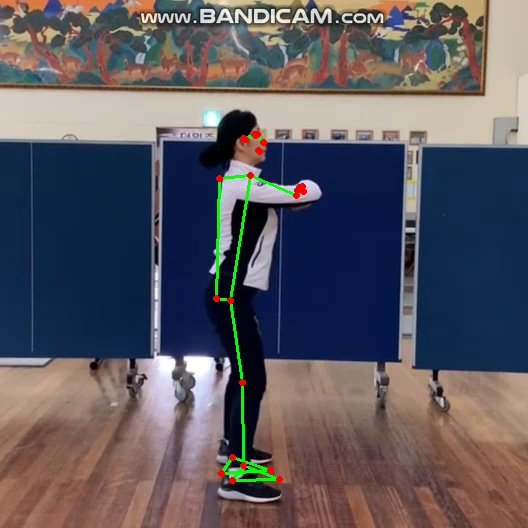
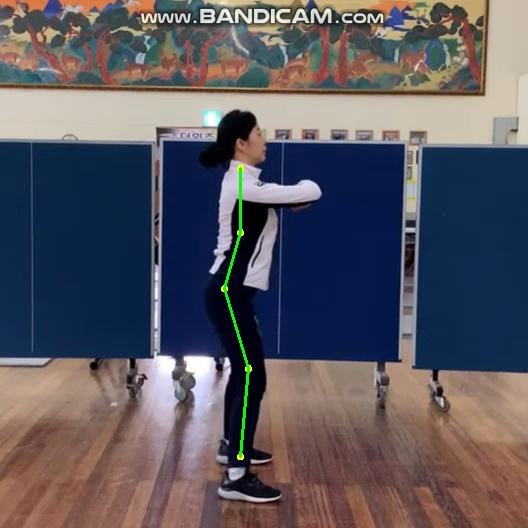
skeleton2,3 작업

Changed region(s): [[0.3939, 0.303, 0.6061, 0.9394], [0.4545, 0.2424, 0.5152, 0.303]]

diff --git a/Pose_Similarity_Check_Flask-master/openpose_skeleton/skeleton2.py b/Pose_Similarity_Check_Flask-master/openpose_skeleton/skeleton2.py
@@ -1,74 +1,39 @@
-import matplotlib as plt
+import cv2
+import pyopenpose as op
+import numpy as np
 
-def plot_line(a, b):
-    # 관절마다 선긋기
-    if (a.any()> 0 and b.any()>0): plt.plot([a[0], b[0]], [a[1], b[1]], 'k-')
-        
-def draw_skeleton(sample, pattern):
-    
-    keypoint = ['Nose', 'LEye', 'REye', 'LEar', 'REar', 'LShoulder', 'RShoulder',
-                'LElbow', 'RElbow', 'LWrist', 'RWrist', 'LHip', 'RHip', 'LKnee', 'RKnee', 'LAnkle', 'RAnkle']
-    skeleton = sample
-    
-    # 각 신체부위의 xy좌표 추출
-    Nose = skeleton[[0,17]]
-    LEye = skeleton[[1,18]]
-    REye = skeleton[[2,19]]
-    LEar = skeleton[[3,20]]
-    REar = skeleton[[4,21]]
-    LShoulder = skeleton[[5,22]]
-    RShoulder = skeleton[[6,23]]
-    LElbow = skeleton[[7,24]]
-    RElbow = skeleton[[8,25]]
-    LWrist = skeleton[[9,26]]
-    RWrist = skeleton[[10,27]]
-    LHip = skeleton[[11,28]]
-    RHip = skeleton[[12,29]]
-    LKnee = skeleton[[13,30]]
-    RKnee = skeleton[[14,31]]
-    LAnkle = skeleton[[15,32]]
-    RAnkle = skeleton[[16,33]]
-    
-    inbox={'facecolor':'w','edgecolor':'r','boxstyle':'round','alpha':0.5}
-    outbox={'facecolor':'w','edgecolor':'b','boxstyle':'round','alpha':0.5}
-    
-    # 각 관절 점 및 텍스트 표시
-    for idx in range(len(sample)//2):
-        plt.plot(sample[idx], sample[17+idx], pattern)
-        plt.text(sample[idx], sample[17+idx], keypoint[idx], verticalalignment='bottom' , horizontalalignment='center' )
-    
-    # 신체에 맞게 각 관절 선으로 연결
-    plot_line(LEye, Nose)
-    plot_line(REar, REye)
-    plot_line(REye, Nose)
-    plot_line(LEar, LEye)
-    plot_line(LShoulder, LElbow)
-    plot_line(LElbow, LWrist)
-    plot_line(RShoulder, RElbow)
-    plot_line(RElbow, RWrist)
-    plot_line(LHip, LKnee)
-    plot_line(LKnee, LAnkle)
-    plot_line(RKnee, RAnkle)
-    plot_line(RHip, RKnee)
-    plot_line(LHip, LShoulder)
-    plot_line(RHip, RShoulder)
-    plot_line(RHip, LHip)
-    plot_line(LShoulder, RShoulder)
-    plot_line(LShoulder, Nose)
-    plot_line(RShoulder, Nose)
-    
-def skeleton_plot(sample, color):
-    # 그래프 padding 값
-    pad_ori = 40
-    plt.subplot(122)
-    plt.title('skeleton')
-    X_ori = sample
-    
-    # 관절의 최대 최소값을 구해 그래프 영역 설정
-    x_max = max(X_ori[:17]) + pad_ori
-    x_min = min(i for i in X_ori[:17] if i > 0) - pad_ori
-    y_max = max(X_ori[17:]) + pad_ori
-    y_min = min(j for j in X_ori[17:] if j > 0) - pad_ori
-    plt.xlim(x_min, x_max)
-    plt.ylim(y_max, y_min)
-    draw_skeleton(X_ori, color)
+
+# OpenPose 설정
+params = dict()
+params["model_folder"] = "openpose/models/"  # 모델 폴더 경로
+params["model_pose"] = "COCO"  # 모델 타입
+params["net_resolution"] = "-1x368"  # 이미지 해상도
+params["disable_blending"] = True  # 이미지 합성 안 함
+opWrapper = op.WrapperPython()
+opWrapper.configure(params)
+opWrapper.start()
+
+# 이미지 로드
+img1 = cv2.imread("image1.jpg")
+img2 = cv2.imread("image2.jpg")
+
+# OpenPose를 사용하여 관절 인식
+datum1 = op.Datum()
+datum1.cvInputData = img1
+opWrapper.emplaceAndPop([datum1])
+joints1 = datum1.poseKeypoints
+connections = op.getPoseBodyPartMapping(op.PoseModel.COCO)
+
+datum2 = op.Datum()
+datum2.cvInputData = img2
+opWrapper.emplaceAndPop([datum2])
+joints2 = datum2.poseKeypoints
+
+# 관절 좌표와 연결 정보를 저장
+joint_coords = []
+joint_connections = []
+for joint_id in range(len(connections)):
+    joint_pair = connections[joint_id]
+    joint_coords.append((joints1[0][joint_pair[0]], joints1[0][joint_pair[1]], joints2[0][joint_pair[1]], joints2[0][joint_pair[0]]))
+    joint_connections.append(joint_pair)
+

diff --git a/Pose_Similarity_Check_Flask-master/openpose_skeleton/skeleton3.py b/Pose_Similarity_Check_Flask-master/openpose_skeleton/skeleton3.py
@@ -1,0 +1,95 @@
+import cv2
+import numpy as np
+
+# 모델 경로
+protoFile = "pose_deploy_linevec_faster_4_stages.prototxt"
+weightsFile = "pose_iter_160000.caffemodel"
+
+# 네트워크 불러오기
+net = cv2.dnn.readNetFromCaffe(protoFile, weightsFile)
+
+# 이미지 경로
+image_path1 = "image1.jpg"
+image_path2 = "image2.jpg"
+
+# 이미지 로드
+image1 = cv2.imread(image_path1)
+image2 = cv2.imread(image_path2)
+
+# 이미지 크기 조정
+image1 = cv2.resize(image1, (368, 368))
+image2 = cv2.resize(image2, (368, 368))
+
+
+# 이미지 전처리
+blob1 = cv2.dnn.blobFromImage(image1, 1.0 / 255, (368, 368), (0, 0, 0), swapRB=False, crop=False)
+blob2 = cv2.dnn.blobFromImage(image2, 1.0 / 255, (368, 368), (0, 0, 0), swapRB=False, crop=False)
+
+# 네트워크 입력 설정
+net.setInput(blob1)
+output1 = net.forward()
+net.setInput(blob2)
+output2 = net.forward()
+
+# 각 부위의 중심 좌표 계산
+points1 = []
+points2 = []
+for i in range(15):
+    probMap1 = output1[0, i, :, :]
+    probMap2 = output2[0, i, :, :]
+
+    # 확률 맵 라벨링
+    _, probMap1 = cv2.threshold(probMap1, 0.1, 255, cv2.THRESH_BINARY)
+    _, probMap2 = cv2.threshold(probMap2, 0.1, 255, cv2.THRESH_BINARY)
+
+    # CV_8UC1 형식으로 변환
+    probMap1 = cv2.convertScaleAbs(probMap1)
+    probMap2 = cv2.convertScaleAbs(probMap2)
+
+    contour1, _ = cv2.findContours(probMap1, cv2.RETR_TREE, cv2.CHAIN_APPROX_SIMPLE)
+    contour2, _ = cv2.findContours(probMap2, cv2.RETR_TREE, cv2.CHAIN_APPROX_SIMPLE)
+
+    # 가장 큰 contour 찾기
+    if len(contour1) > 0 and len(contour2) > 0:
+        max_contour1 = max(contour1, key=cv2.contourArea)
+        max_contour2 = max(contour2, key=cv2.contourArea)
+
+        # 바운딩 박스 계산
+        rect1 = cv2.boundingRect(max_contour1)
+        rect2 = cv2.boundingRect(max_contour2)
+
+        # 바운딩 박스 중심 좌표 계산
+        center1 = (rect1[0] + rect1[2] / 2, rect1[1] + rect1[3] / 2)
+        center2 = (rect2[0] + rect2[2] / 2, rect2[1] + rect2[3] / 2)
+
+        # 좌표 리스트에 추가
+        points1.append(center1)
+        points2.append(center2)
+
+
+# 각 부위의 유사도 계산
+similarity = []
+for i in range(len(points1)):
+    x1, y1 = points1[i]
+    x2, y2 = points2[i]
+    dist = ((x2 - x1) ** 2 + (y2 - y1) ** 2) ** 0.5
+    sim = max(0, 1 - dist / 50)
+    print("73", sim)
+    similarity.append(sim)
+
+# 이미지 색칠하기
+for i, sim in enumerate(similarity):
+    x1, y1 = points1[i]
+    x2, y2 = points2[i]
+    if sim >= 0.5:
+        color = (int(sim * 255), 0, int((1 - sim) * 255))
+    else:
+        color = (0, int(sim * 255), int((1 - sim) * 255))
+    cv2.line(image1, (int(x1), int(y1)), (int(x2), int(y2)),  color, 3)
+    print("85", (int(x1), int(y1)), (int(x2), int(y2)),  (255, 0, 0), 8)
+
+# 결과 이미지 보여주기
+cv2.imshow("Image 1", image1)
+cv2.imshow("Image 2", image2)
+cv2.waitKey(0)
+

diff --git a/Pose_Similarity_Check_Flask-master/pose_match.py b/Pose_Similarity_Check_Flask-master/pose_match.py
@@ -150,11 +150,13 @@ def draw_joints(image_path):
     pose.close()
 
     return image
-def get_pose_similarity(video_path1, video_path2, exercise):# main function
+
+
+def get_pose_similarity(video_path1, video_path2, exercise): # main function
 
     global top_indices
-    sk_frame1 = []
-    sk_frame2 = []
+    # joint_image1 = []
+    # joint_image2 = []
     video1_path = video_path1
     video2_path = video_path2
 
@@ -164,7 +166,7 @@ def get_pose_similarity(video_path1, video_path2, exercise):# main function
     similarity_list = []
     frame_pairs = []
 
-    with mp_pose.Pose(static_image_mode = False,min_detection_confidence=0.5) as pose:
+    with mp_pose.Pose(static_image_mode=False, min_detection_confidence=0.5) as pose:
         with ThreadPoolExecutor() as executor:
             while cap1.isOpened() and cap2.isOpened():
                 ret1, frame1 = cap1.read()
@@ -196,8 +198,10 @@ def get_pose_similarity(video_path1, video_path2, exercise):# main function
             cv2.imwrite(f"./jpgs/video2_frame_{i + 1}_cosine.jpg", frame2)
 
             # 관절 그리기
-            joint_image1 = draw_joints(f"./jpgs/video1_frame_{i + 1}_cosine.jpg")
-            joint_image2 = draw_joints(f"./jpgs/video2_frame_{i + 1}_cosine.jpg")
+            joint_image1 = skeleton.draw(frame1, index)
+            joint_image2 = skeleton.draw(frame2, index)
+            # joint_image1 = draw_joints(f"./jpgs/video1_frame_{i + 1}_cosine.jpg")
+            # joint_image2 = draw_joints(f"./jpgs/video2_frame_{i + 1}_cosine.jpg")
 
             # 관절이 그려진 이미지 저장
             cv2.imwrite(f"./jpgs/video1_frame_{i + 1}_cosine_with_joints.jpg", joint_image1)
@@ -210,8 +214,10 @@ def get_pose_similarity(video_path1, video_path2, exercise):# main function
     return similarities, frame_pairs, top_indices, fig
 # 코드의 나머지 부분은 동일합니다.
 
+
 def main():
-    print(get_pose_similarity('pushups-sample_exp.mp4', 'pushups-sample_user.mp4', 'Squat'))
+    get_pose_similarity('pushups-sample_exp.mp4', 'pushups-sample_user.mp4', 'Squat')
+
 
 if __name__ == '__main__':
     main()

diff --git a/Pose_Similarity_Check_Flask-master/openpose_skeleton/skeleton.py b/Pose_Similarity_Check_Flask-master/openpose_skeleton/skeleton.py
@@ -35,7 +35,7 @@ def draw(frame, index): #1~5
     #-- 이미지 불러오기
     image = frame
 
-    imageHeight, imageWidth, _ = image.shape #-- 불러온 이미지에서 height, width, color를 가져옴
+    imageHeight, imageWidth, _ = image.shape  #-- 불러온 이미지에서 height, width, color를 가져옴
     
     inpBlob = cv2.dnn.blobFromImage(image, 1.0 / 255, (imageWidth, imageHeight), (0, 0, 0), swapRB=False, crop=False) #-- network에 적용하기 위한 전처리
 
@@ -58,7 +58,7 @@ def draw(frame, index): #1~5
         y = (imageHeight * point[1]) / H
 
         #-- 검출된 포인트가 BODY_PARRTS와 대응되면 포인트 추가(검출 결과가 0.1보다 크면) / 검출했으나 해당 파츠가 없는 경우 None    
-        if prob > 0.1 :    
+        if prob > 0.1 :
             # 점찍고 숫자 써줌 - 아래 2줄
             if i==1 or i==14 or i==8 or i==9 or i==10:
                 cv2.circle(image, (int(x), int(y)), 3, (0, 255, 255), thickness=-1, lineType=cv2.FILLED) #-- circle(이미지, 원의 중심, 반지름, 컬러)
@@ -66,6 +66,7 @@ def draw(frame, index): #1~5
             points.append((int(x), int(y)))
         else :
             points.append(None)
+
 
     #-- 생성된 POSE_PAIRS에 맞게 라인 생성
     for pair in POSE_PAIRS:
@@ -77,7 +78,13 @@ def draw(frame, index): #1~5
         if((partA==1 and partB==14) or (partA==14 and partB==8) or (partA==8 and partB==9) or (partA==9 and partB==10)):
             print(partA," 와 ", partB, " 연결\n")
             if points[partA] and points[partB]:
+
                 cv2.line(image, points[partA], points[partB], (0, 255, 0), 2)
 
-    cv2.imwrite('./output.png', image)
     return image
+
+
+
+# image1 = cv2.imread("./image1.jpg")
+# cv2.imshow("Image 1", draw(image1, 1))
+# cv2.waitKey(0)
